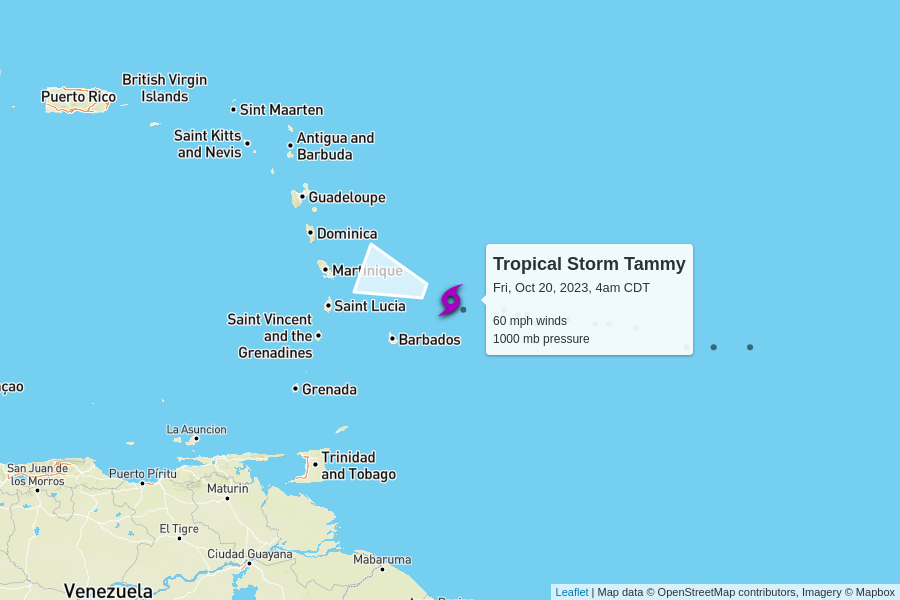
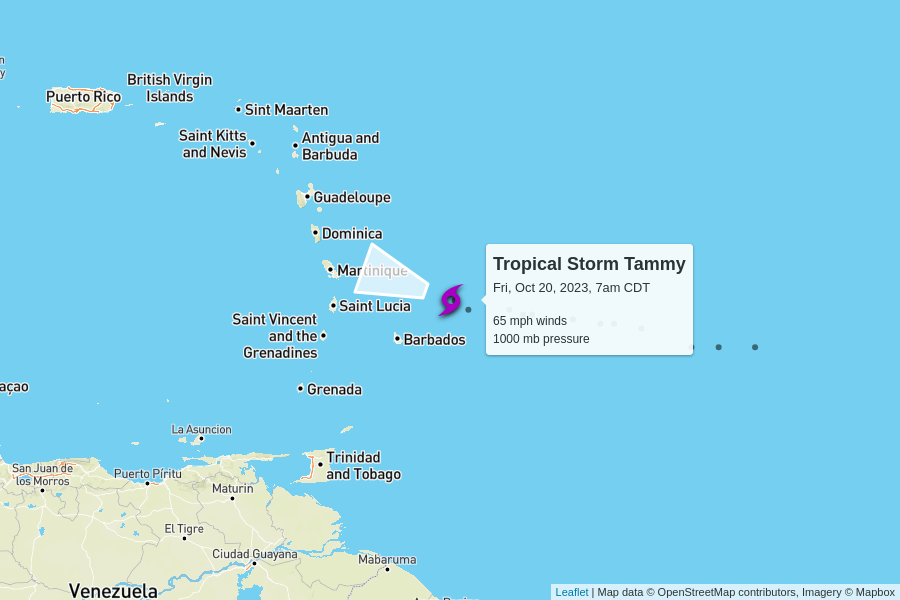
automatic update

diff --git a/docs/index.html b/docs/index.html
@@ -102,7 +102,7 @@
         <td colspan="6" class="storm category-0" >
           <h2>
             Tropical Storm Tammy
-            <p class="updated">last updated <span data-time>2023-10-20T09:00:00.000Z</span></p>
+            <p class="updated">last updated <span data-time>2023-10-20T12:00:00.000Z</span></p>
           </h2>
         </td>
       </tr>
@@ -117,10 +117,10 @@
       </tr>
       <tr>
         <td class="spacer"></td>
-        <td>60 mph<br>0 mph since last update</td>
-        <td>1000 mb<br>-2 mb since last update</td>
+        <td>65 mph<br>+5 mph since last update</td>
+        <td>1000 mb<br>0 mb since last update</td>
         <td>
-          8 mph to the west-northwest
+          7 mph to the west-northwest
           <br/>
           <span style="display: inline-block; font-size: 1.5em; transform: rotate(290deg);">↑</span>
         </td>
@@ -253,28 +253,6 @@
       
 
       <tr>
-        <td colspan="6" class="storm " style="cursor:pointer;" onClick="toggle('AL142023')">
-          <h2>🏁 Margot
-          </h2>
-        </td>
-      </tr>
-      
-      <tr id="storm_AL142023" style="display:none;">
-        <td class="spacer">
-        <td colspan="5">
-          <figure>
-            <img src="AL142023.png">
-            <figcaption>
-              Map data &copy; <a href="https://www.openstreetmap.org/copyright">OpenStreetMap</a> contributors,
-              Imagery &copy; <a href="https://www.mapbox.com/">Mapbox</a> |
-              <a href="https://www.mapbox.com/map-feedback/" target="_blank">Improve this map</a>
-            </figcaption>
-          </figure>
-        </td>
-      </tr>
-      
-
-      <tr>
         <td colspan="6" class="storm " style="cursor:pointer;" onClick="toggle('AL132023')">
           <h2>🏁 Lee
           </h2>
@@ -286,6 +264,28 @@
         <td colspan="5">
           <figure>
             <img src="AL132023.png">
+            <figcaption>
+              Map data &copy; <a href="https://www.openstreetmap.org/copyright">OpenStreetMap</a> contributors,
+              Imagery &copy; <a href="https://www.mapbox.com/">Mapbox</a> |
+              <a href="https://www.mapbox.com/map-feedback/" target="_blank">Improve this map</a>
+            </figcaption>
+          </figure>
+        </td>
+      </tr>
+      
+
+      <tr>
+        <td colspan="6" class="storm " style="cursor:pointer;" onClick="toggle('AL142023')">
+          <h2>🏁 Margot
+          </h2>
+        </td>
+      </tr>
+      
+      <tr id="storm_AL142023" style="display:none;">
+        <td class="spacer">
+        <td colspan="5">
+          <figure>
+            <img src="AL142023.png">
             <figcaption>
               Map data &copy; <a href="https://www.openstreetmap.org/copyright">OpenStreetMap</a> contributors,
               Imagery &copy; <a href="https://www.mapbox.com/">Mapbox</a> |
